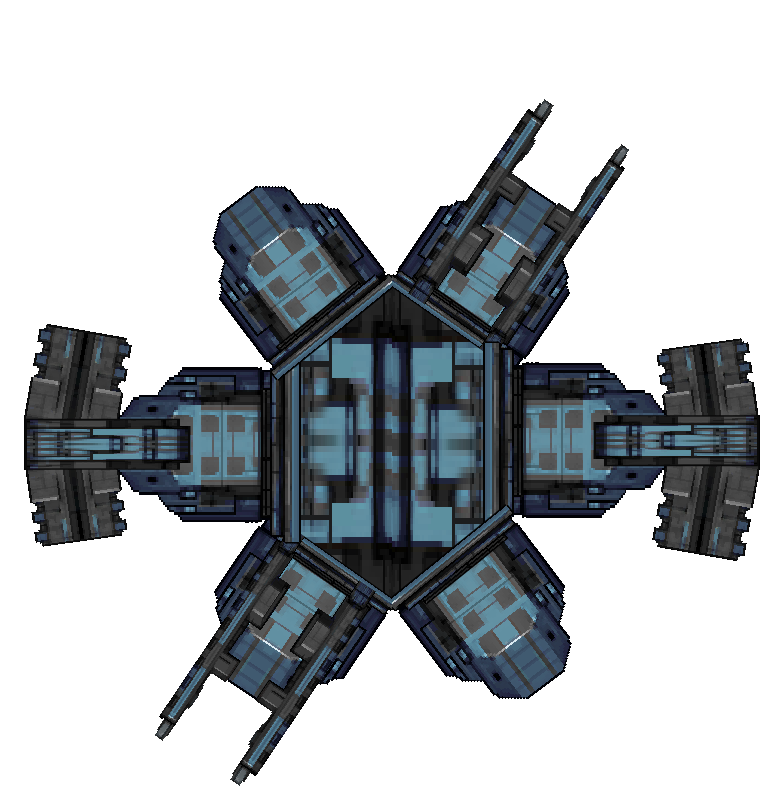
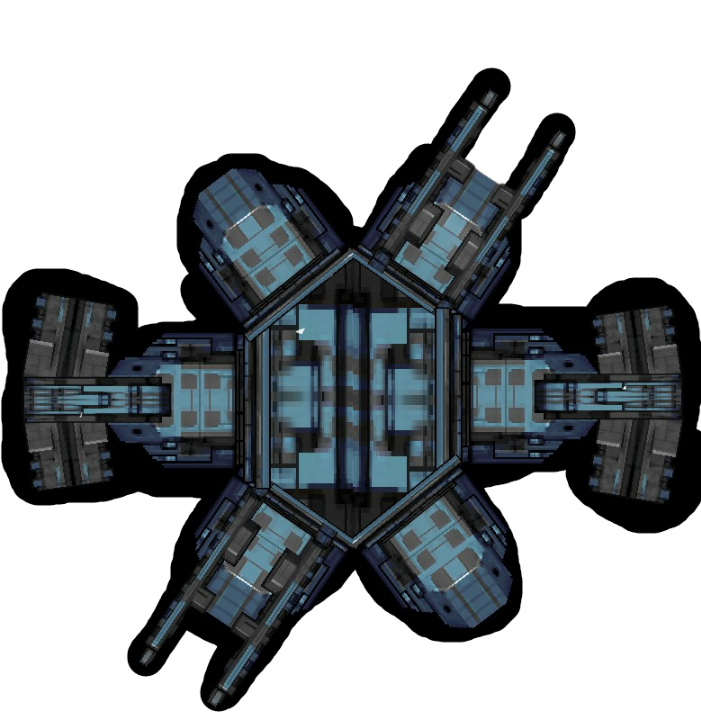
resized map and added new photos, AB#1433

Changed region(s): [[0.0, 0.0917, 0.7489, 1.0], [0.6591, 0.1528, 1.0, 0.7639]]

diff --git a/src/main/java/com/spacepilot/view/Gui.java b/src/main/java/com/spacepilot/view/Gui.java
@@ -515,11 +515,16 @@ public class Gui {
     mapPanel.setBackground(Color.black);
     mapPanel.setLayout(null);
 
+    JLabel backgroundLabel = new JLabel("");
+    backgroundLabel.setIcon(
+        new ImageIcon(getClass().getClassLoader().getResource("images/Space.jpg")));
+    backgroundLabel.setBounds(0, 0, 1140, 900);
+
     //Creating maps buttons to go to respective planets below
 
     //    creates sun btn, icon, and functionality
     sunBtn = new JButton();
-    planetIcons(sunBtn, "images/Sun.jpg", 250, 100, 200, 170);
+    planetIcons(sunBtn, "images/Sun.png", 330, 200, 400, 380, 400, 400);
     sunBtn.addActionListener(new ActionListener() {
       @Override
       public void actionPerformed(ActionEvent e) {
@@ -528,46 +533,46 @@ public class Gui {
     });
     //    creates earth btn, icon, and functionality
     JButton earthBtn = new JButton("Earth");
-    planetIcons(earthBtn, "images/Earth.png", 330, 30, 50, 69);
+    planetIcons(earthBtn, "images/Earth.png", 440, 80, 100, 118, 100, 98);
     chaChaRealSmooth(earthBtn, "go earth", true);
 //    creates moon btn, icon, and functionality
     JButton moonBtn = new JButton("Moon");
-    planetIcons(moonBtn, "images/Moon.png", 260, 20, 37, 48);
+    planetIcons(moonBtn, "images/Moon.png", 380, 40, 47, 48, 27, 28);
     chaChaRealSmooth(moonBtn, "go moon", true);
     //    creates mars btn, icon, and functionality
     JButton marsBtn = new JButton("Mars");
-    planetIcons(marsBtn, "images/Mars.png", 70, 150, 50, 71);
+    planetIcons(marsBtn, "images/Mars.png", 80, 280, 100, 122, 100, 102);
     chaChaRealSmooth(marsBtn, "go mars", true);
 
     //CONSUMER TIPS
 //    marsBtn.addActionListener(e -> movePlanetsListenerConsumer.accept("mars"));
     //    creates mercury btn, icon, and functionality
     JButton mercuryBtn = new JButton("Mercury");
-    planetIcons(mercuryBtn, "images/Mercury.png", 160, 190, 50, 52);
+    planetIcons(mercuryBtn, "images/Mercury.png", 230, 400, 60, 84, 60, 64);
     chaChaRealSmooth(mercuryBtn, "go mercury", true);
     //    creates saturn btn, icon, and functionality
     JButton saturnBtn = new JButton("Saturn");
-    planetIcons(saturnBtn, "images/Saturn.png", 130, 290, 58, 62);
+    planetIcons(saturnBtn, "images/Saturn.png", 115, 540, 116, 104, 116, 84);
     chaChaRealSmooth(saturnBtn, "go saturn", true);
     //    creates venus btn, icon, and functionality
     JButton venusBtn = new JButton("Venus");
-    planetIcons(venusBtn, "images/Venus.png", 460, 160, 50, 58);
+    planetIcons(venusBtn, "images/Venus.png", 775, 375, 74, 96, 74, 76);
     chaChaRealSmooth(venusBtn, "go venus", true);
     //    creates neptune btn, icon, and functionality
     JButton neptuneBtn = new JButton("Neptune");
-    planetIcons(neptuneBtn, "images/Neptune.png", 90, 40, 55, 60);
+    planetIcons(neptuneBtn, "images/Neptune.png", 100, 100, 110, 100, 110, 80);
     chaChaRealSmooth(neptuneBtn, "go neptune", true);
     //    creates jupiter btn, icon, and functionality
     JButton jupiterBtn = new JButton("Jupiter");
-    planetIcons(jupiterBtn, "images/Jupiter.png", 480, 230, 79, 101);
+    planetIcons(jupiterBtn, "images/Jupiter.png", 800, 550, 158, 182, 158, 162);
     chaChaRealSmooth(jupiterBtn, "go jupiter", true);
     //    creates uranus btn, icon, and functionality
     JButton uranusBtn = new JButton("Uranus");
-    planetIcons(uranusBtn, "images/Uranus.png", 320, 290, 43, 65);
+    planetIcons(uranusBtn, "images/Uranus.png", 500, 590, 86, 110, 86, 90);
     chaChaRealSmooth(uranusBtn, "go uranus", true);
     //    creates station btn, icon, and functionality
     stationBtn = new JButton("Station");
-    planetIcons(stationBtn, "images/Station.png", 500, -10, 150, 170);
+    planetIcons(stationBtn, "images/Station.png", 700, -40, 300, 340, 300, 300);
     chaChaRealSmooth(stationBtn, "go station", true);
     //Adding all buttons to menu frame
     mapPanel.add(earthBtn);
@@ -581,6 +586,13 @@ public class Gui {
     mapPanel.add(saturnBtn);
     mapPanel.add(stationBtn);
     mapPanel.add(sunBtn);
+    mapPanel.add(backgroundLabel);
+    sunBtn.setOpaque(false);
+    sunBtn.setContentAreaFilled(false);
+    sunBtn.setBorderPainted(false);
+    stationBtn.setOpaque(false);
+    stationBtn.setContentAreaFilled(false);
+    stationBtn.setBorderPainted(false);
   }
 
   //THESE METHODS WILL SHOW RESPECTIVE SCREENS AND HIDE OTHERS
@@ -681,22 +693,16 @@ public class Gui {
   }
 
   public void planetIcons(JButton btn, String png, Integer x, Integer y, Integer width,
-      Integer height) {
-    if (btn.equals(sunBtn)) {
-      planetIcon = new ImageIcon(getClass().getClassLoader().getResource(png));
-      Image img = planetIcon.getImage();
-      Image newImg = img.getScaledInstance(200, 200, Image.SCALE_DEFAULT);
-      planetIcon = new ImageIcon(newImg);
-    } else if (!btn.equals(stationBtn)) {
-      planetIcon = new ImageIcon(getClass().getClassLoader().getResource(png));
-    } else {
-      planetIcon = new ImageIcon(getClass().getClassLoader().getResource(png));
-      Image img = planetIcon.getImage();
-      Image newImg = img.getScaledInstance(150, 150, Image.SCALE_DEFAULT);
-      planetIcon = new ImageIcon(newImg);
-    }
+      Integer height, Integer scaleWidth, Integer scaleHeight) {
+
+    planetIcon = new ImageIcon(getClass().getClassLoader().getResource(png));
+    Image img = planetIcon.getImage();
+    Image newImg = img.getScaledInstance(scaleWidth, scaleHeight, Image.SCALE_DEFAULT);
+    planetIcon = new ImageIcon(newImg);
+
     btn.setIcon(planetIcon);
     btn.setBackground(Color.black);
+    btn.setForeground(Color.gray);
     btn.setBorder(BorderFactory.createLineBorder(Color.black));
     btn.setVerticalTextPosition(SwingConstants.BOTTOM);
     btn.setHorizontalTextPosition(SwingConstants.CENTER);
